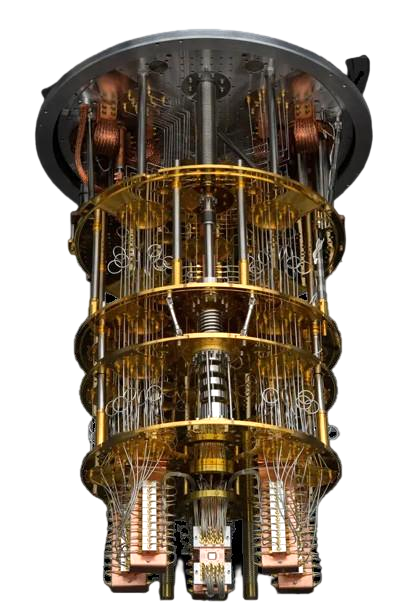
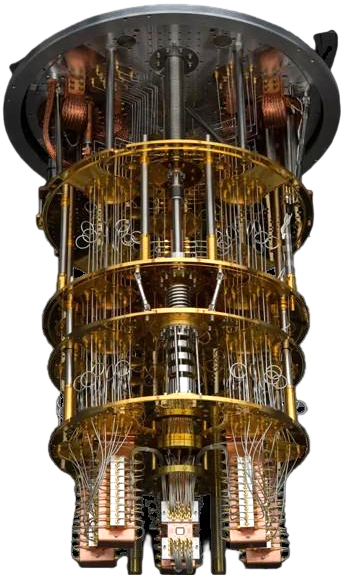
hero page updae

diff --git a/styles.css b/styles.css
@@ -77,43 +77,51 @@ h1, h2, h3 {
     display: flex;
     align-items: center;
     justify-content: space-between;
-    padding: 8% 8%;
+    padding: 4% 7% 4% 10%;
     gap: 30px;
     background: var(--text);
     color: #ffffff;
     overflow: hidden;
-}
-
-.hero-content {
-    max-width: 600px;
+    margin-left: 2;
 }
 
 .hero h1 {
     font-family: "Quantico", sans-serif;
-    font-size: 4rem;
-    line-height: 0.95;
+    font-size: 4.5rem;
+    line-height: 0.98;
     font-weight: 600;
-
-    margin: 0 0 1.5rem;
+    margin: 0 2;
 }
 
 .hero p {
     font-family: "Space Grotesk", sans-serif;
-    font-size: 1.1rem;
-    font-size: 1.3rem;
+    font-size: 1.6rem;
     line-height: 1.6;
-    color: #a8a8a8;
+    color: #d9d2d2;
+    margin: 0 2;
+    margin-bottom: 2rem;
+}
 
-    max-width: 500px;
+.hero p {
+    font-family: "Space Grotesk", sans-serif;
+    font-size: 1.6rem;
+    line-height: 1.6;
+    color: #d9d2d2;
+    margin: 0 2;
     margin-bottom: 2rem;
 }
 
 .hero-image {
-    width: 48%;
+    width: 50%;
     display: flex;
-    margin-right: 0;
     justify-content: center;
     align-items: center;
+    position: relative;
+}
+
+.hero-image img {
+    max-width: 80%;
+    height: auto;
 }
 
 @media (max-width: 768px) {

diff --git a/index.html b/index.html
@@ -36,16 +36,13 @@
 
 <section class="hero">
     <div class="hero-content">
-        <h1>UofT Quantum Computing Club</h1>
+        <h1>UofT <br> Quantum <br> Computing <br> Club</h1>
+        <br>
         <p>From the ground (state) up</p>
-
-        <div class="hero-buttons">
-            <!-- put her a double arrow buttn -->
-        </div>
     </div>
 
     <div class="hero-image">
-        <img src="assets/quantum computer.png" alt="Quantum computer">
+        <img src="assets/quant_comp_logo.png" alt="Quantum computer">
     </div>
 </section>
   </section>
